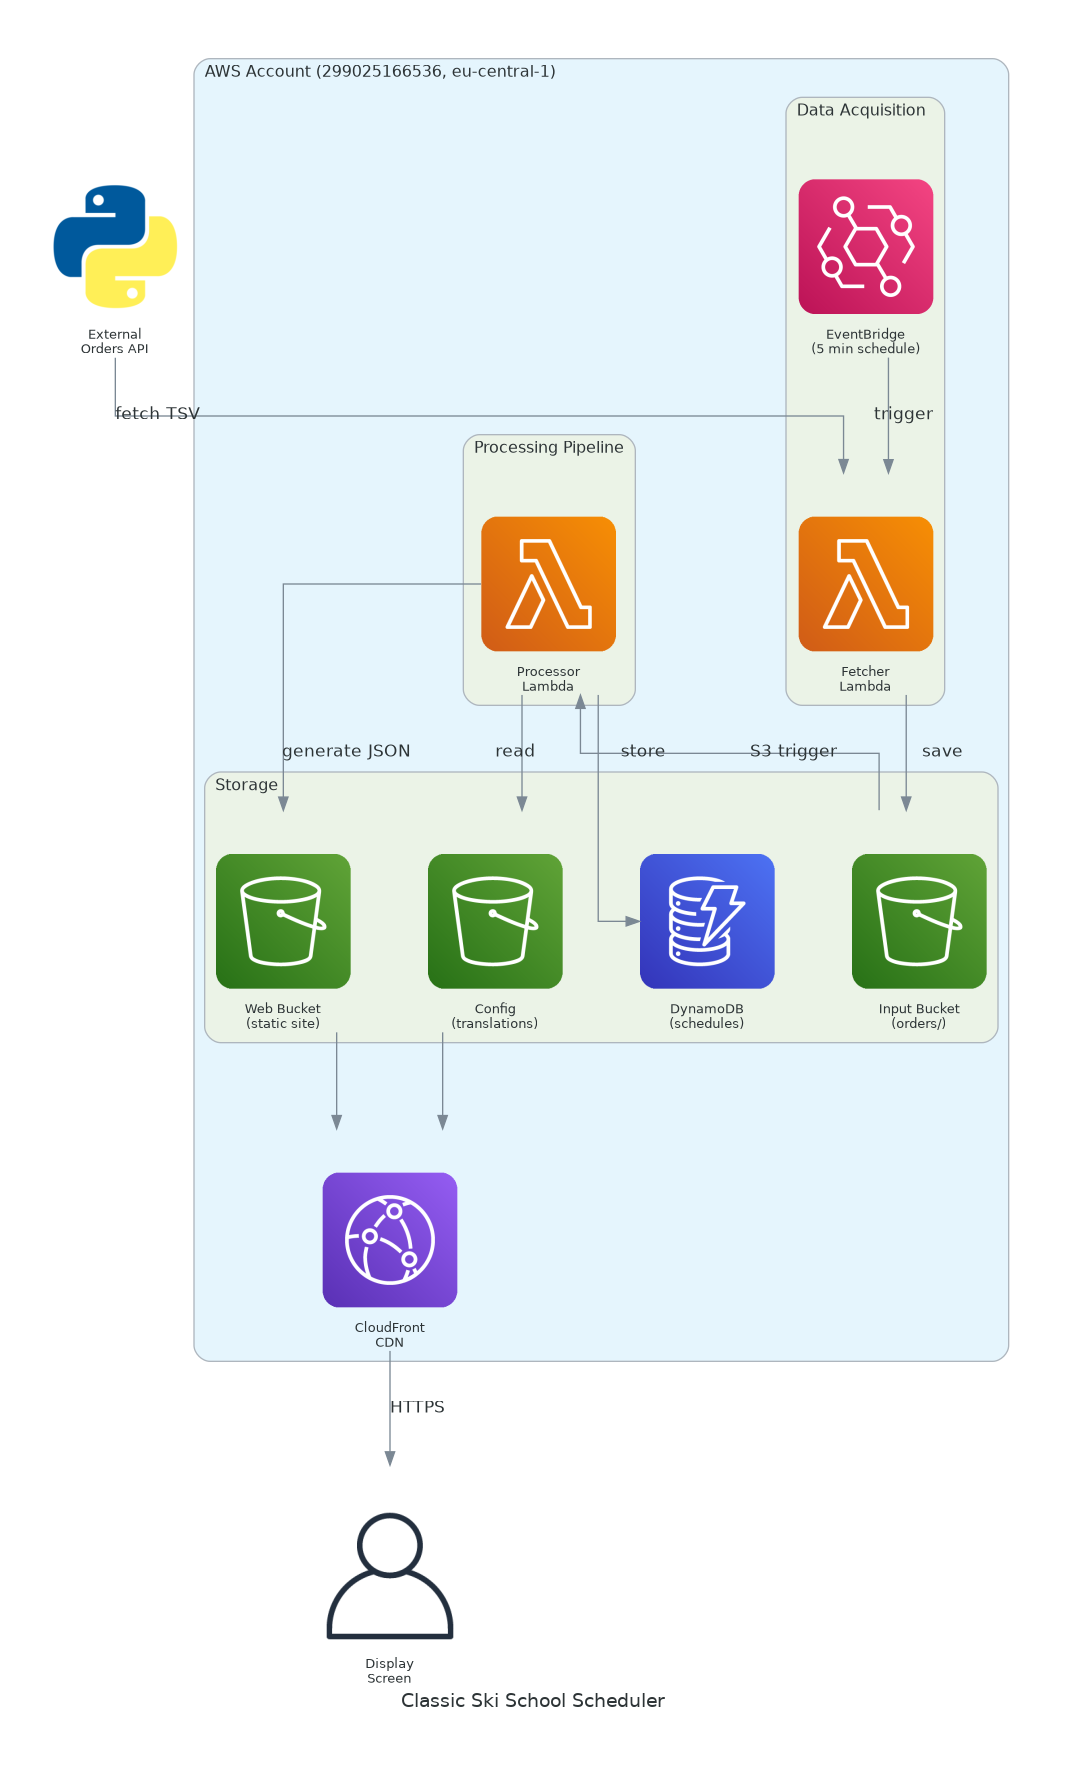
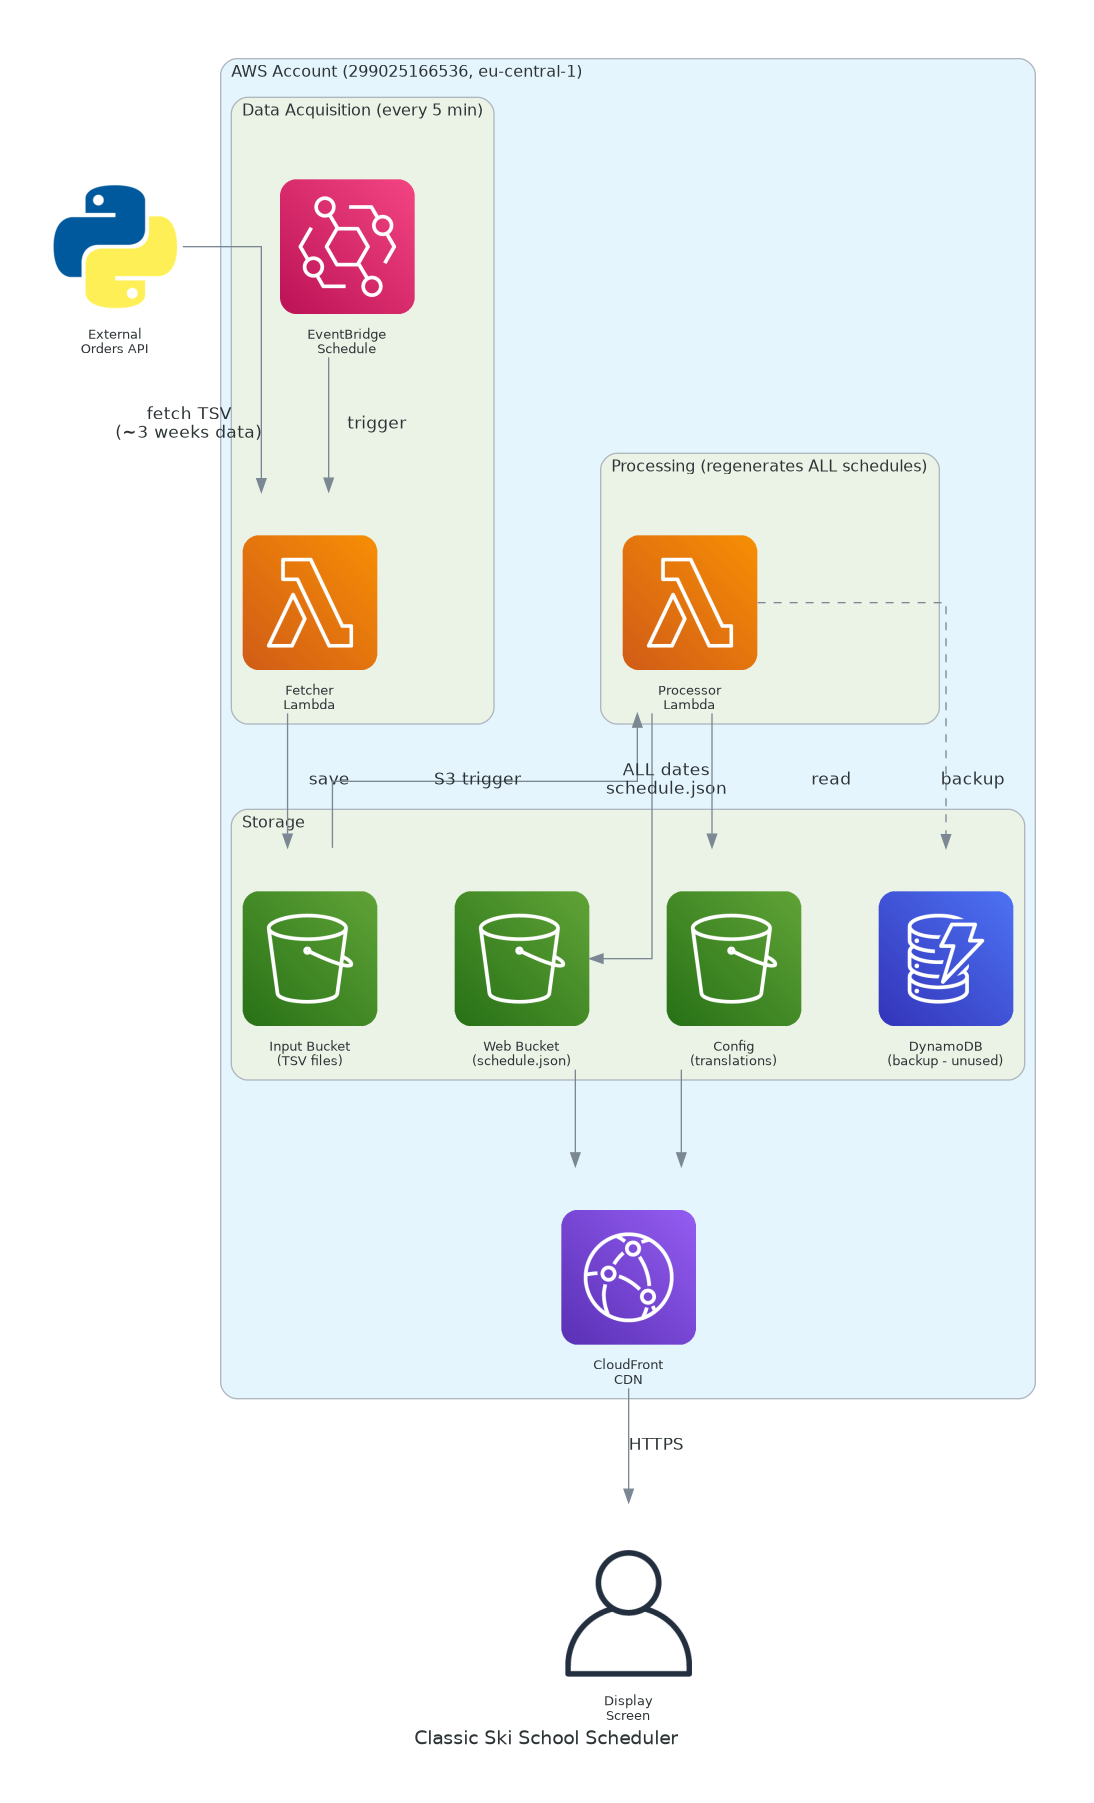
Architecture: clarify DynamoDB role and processing behavior
- Processor regenerates ALL schedules (not just today)
- DynamoDB is backup storage (unused by frontend)
- Frontend reads schedule.json directly
- Updated diagram with clearer labels

diff --git a/docs/architecture/generate.py b/docs/architecture/generate.py
@@ -64,19 +64,19 @@ with Diagram(
     with Cluster("AWS Account (299025166536, eu-central-1)"):
 
         # Data Acquisition
-        with Cluster("Data Acquisition"):
-            eventbridge = Eventbridge("EventBridge\n(5 min schedule)")
+        with Cluster("Data Acquisition (every 5 min)"):
+            eventbridge = Eventbridge("EventBridge\nSchedule")
             fetcher = Lambda("Fetcher\nLambda")
 
         # Storage
         with Cluster("Storage"):
-            input_bucket = S3("Input Bucket\n(orders/)")
-            web_bucket = S3("Web Bucket\n(static site)")
+            input_bucket = S3("Input Bucket\n(TSV files)")
+            web_bucket = S3("Web Bucket\n(schedule.json)")
             config = S3("Config\n(translations)")
-            dynamodb = Dynamodb("DynamoDB\n(schedules)")
+            dynamodb = Dynamodb("DynamoDB\n(backup - unused)")
 
         # Processing
-        with Cluster("Processing Pipeline"):
+        with Cluster("Processing (regenerates ALL schedules)"):
             processor = Lambda("Processor\nLambda")
 
         # Delivery
@@ -84,13 +84,13 @@ with Diagram(
 
     # Data flow
     eventbridge >> Edge(label="trigger") >> fetcher
-    external_api >> Edge(label="fetch TSV") >> fetcher
+    external_api >> Edge(label="fetch TSV\n(~3 weeks data)") >> fetcher
     fetcher >> Edge(label="save") >> input_bucket
 
     input_bucket >> Edge(label="S3 trigger") >> processor
     processor >> Edge(label="read") >> config
-    processor >> Edge(label="store") >> dynamodb
-    processor >> Edge(label="generate JSON") >> web_bucket
+    processor >> Edge(label="backup", style="dashed") >> dynamodb
+    processor >> Edge(label="ALL dates\nschedule.json") >> web_bucket
 
     web_bucket >> cloudfront
     config >> cloudfront

diff --git a/docs/architecture/README.md b/docs/architecture/README.md
@@ -8,8 +8,8 @@
 
 The Classic Ski School Scheduler is a serverless AWS application that:
 1. **Fetches** lesson data from external booking system (every 5 minutes)
-2. **Processes** data through a modular pipeline (parse, validate, privacy filter)
-3. **Stores** processed schedules in DynamoDB
+2. **Processes** ALL lessons (~3 weeks) through pipeline (parse, validate, privacy filter)
+3. **Generates** schedule.json with all dates (frontend reads this directly)
 4. **Displays** lessons on vertical screens via CloudFront
 
 ## Components
@@ -17,20 +17,40 @@ The Classic Ski School Scheduler is a serverless AWS application that:
 | Component | AWS Resource | Purpose |
 |-----------|--------------|---------|
 | EventBridge | Scheduled rule (5 min) | Triggers data fetch |
-| Fetcher Lambda | `goldsport-scheduler-fetcher-dev` | Fetches TSV from external API |
-| Input Bucket | `goldsport-scheduler-input-dev` | Stores raw data files |
-| Processor Lambda | `goldsport-scheduler-engine-dev` | Processes data through pipeline |
-| DynamoDB | `goldsport-scheduler-data-dev` | Stores processed schedules |
-| Web Bucket | `goldsport-scheduler-web-dev` | Hosts static site + JSON |
+| Fetcher Lambda | `goldsport-scheduler-fetcher-dev` | Fetches TSV from external API (~3 weeks of bookings) |
+| Input Bucket | `goldsport-scheduler-input-dev` | Stores raw TSV files |
+| Processor Lambda | `goldsport-scheduler-engine-dev` | Processes ALL lessons, regenerates schedule.json |
+| DynamoDB | `goldsport-scheduler-data-dev` | **Backup storage (currently unused by frontend)** |
+| Web Bucket | `goldsport-scheduler-web-dev` | Hosts static site + schedule.json |
 | CloudFront | Distribution | HTTPS delivery, caching |
 
 ## Data Flow
 
 ```
-External API → Fetcher Lambda → S3 Input → Processor Lambda → DynamoDB
-                                                           ↓
-                                              S3 Web → CloudFront → Display
+External API ──(~3 weeks TSV)──> Fetcher Lambda ──> S3 Input
+                                                      │
+                                                      ▼ (S3 trigger)
+                                              Processor Lambda
+                                              (regenerates ALL)
+                                                      │
+                              ┌────────────────┬──────┴──────┐
+                              ▼                ▼              ▼
+                          DynamoDB      schedule.json     S3 Web
+                          (backup)      (all dates)    (static site)
+                                              │
+                                              ▼
+                                         CloudFront
+                                              │
+                                              ▼
+                                           Display
 ```
+
+## Key Points
+
+- **Processor regenerates ALL schedules** each run (not just today)
+- **schedule.json** contains `all_lessons_by_date` with every date from TSV
+- **DynamoDB** is backup storage for future API use (frontend doesn't query it)
+- **Frontend** reads schedule.json directly via CloudFront
 
 ## Regenerating
 
